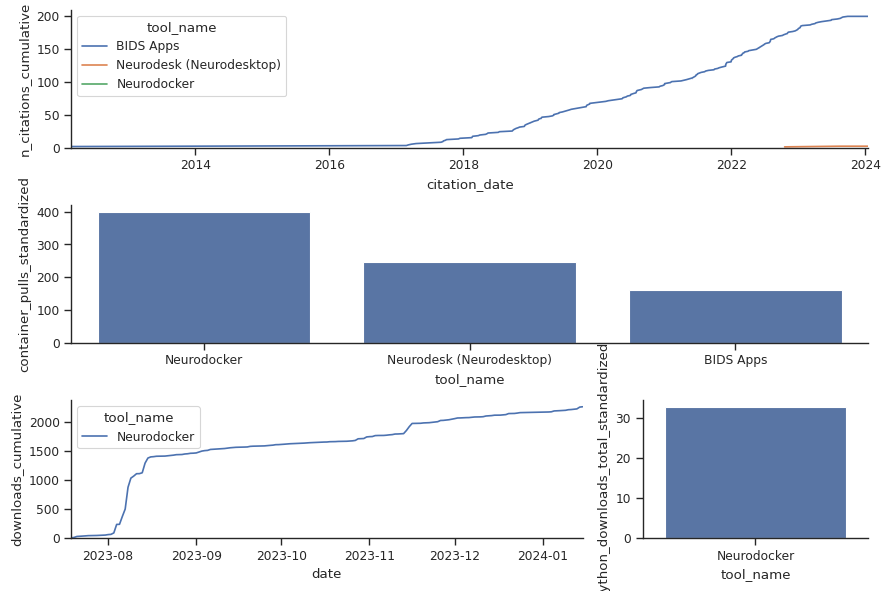
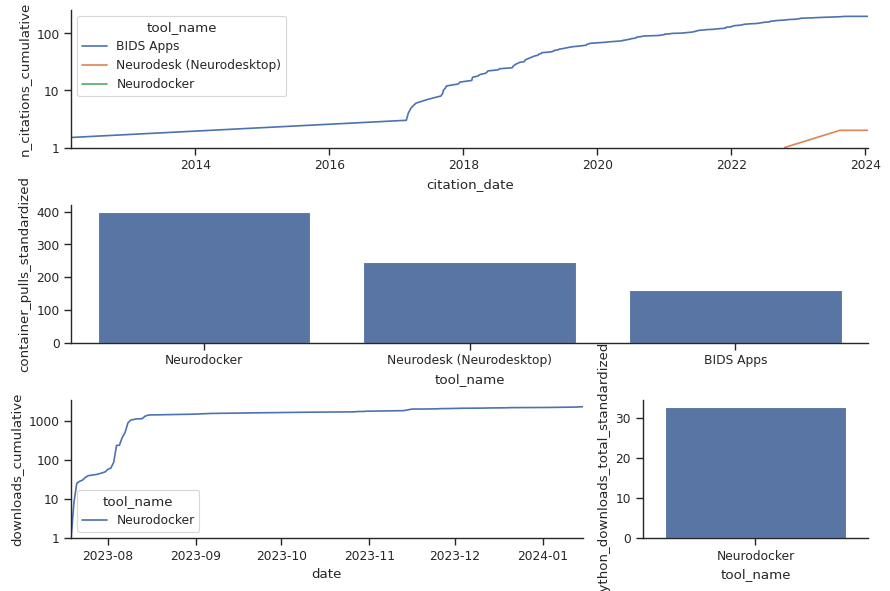
refactor/update timeseries plots

diff --git a/code/generate_figures.py b/code/generate_figures.py
@@ -20,6 +20,7 @@ from utils import (
     generate_col_standardized,
 )
 from metrics import compute_metrics
+from plotting import plot_timeseries
 
 def plot_citations(df_metrics: pd.DataFrame, ax=None) -> plt.Axes:
 
@@ -59,16 +60,13 @@ def plot_citations(df_metrics: pd.DataFrame, ax=None) -> plt.Axes:
     )
     df_citations[col_n_citations_cumulative] = df_citations.groupby(COL_NAME)[col_n_citations].cumsum()
 
-    ax = sns.lineplot(
+    ax = plot_timeseries(
         data=df_citations,
         x=col_citation_date,
         y=col_n_citations_cumulative,
         hue=COL_NAME,
         ax=ax,
     )
-
-    ax.set_ylim(bottom=0)
-    ax.set_xlim(left=min(df_citations[col_citation_date]), right=max(df_citations[col_citation_date]))
 
     return ax
 
@@ -128,16 +126,13 @@ def plot_python_timeseries(df_metrics: pd.DataFrame, ax=None) -> plt.Axes:
     df_downloads = pd.DataFrame(data_for_df_downloads).sort_values([COL_NAME, col_date])
     df_downloads[col_downloads_cumulative] = df_downloads.groupby(COL_NAME)[col_downloads].cumsum()
 
-    ax = sns.lineplot(
+    ax = plot_timeseries(
         data=df_downloads,
         x=col_date,
         y=col_downloads_cumulative,
         hue=COL_NAME,
         ax=ax,
     )
-
-    ax.set_ylim(bottom=0)
-    ax.set_xlim(left=min(df_downloads[col_date]), right=max(df_downloads[col_date]))
 
     return ax
 

diff --git a/code/plotting.py b/code/plotting.py
@@ -1,0 +1,14 @@
+import seaborn as sns
+from matplotlib.ticker import FormatStrFormatter
+
+def plot_timeseries(data, x, y, **kwargs):
+    ax = sns.lineplot(data=data, x=x, y=y, **kwargs)
+    ax.set_yscale('log')
+    ax.minorticks_off()
+    ax.get_yaxis().set_major_formatter(FormatStrFormatter('%.0f'))
+    ax.set_ylim(bottom=1)
+    ax.set_xlim(left=min(data[x]), right=max(data[x]))
+    return ax
+
+def plot_bar():
+    pass
